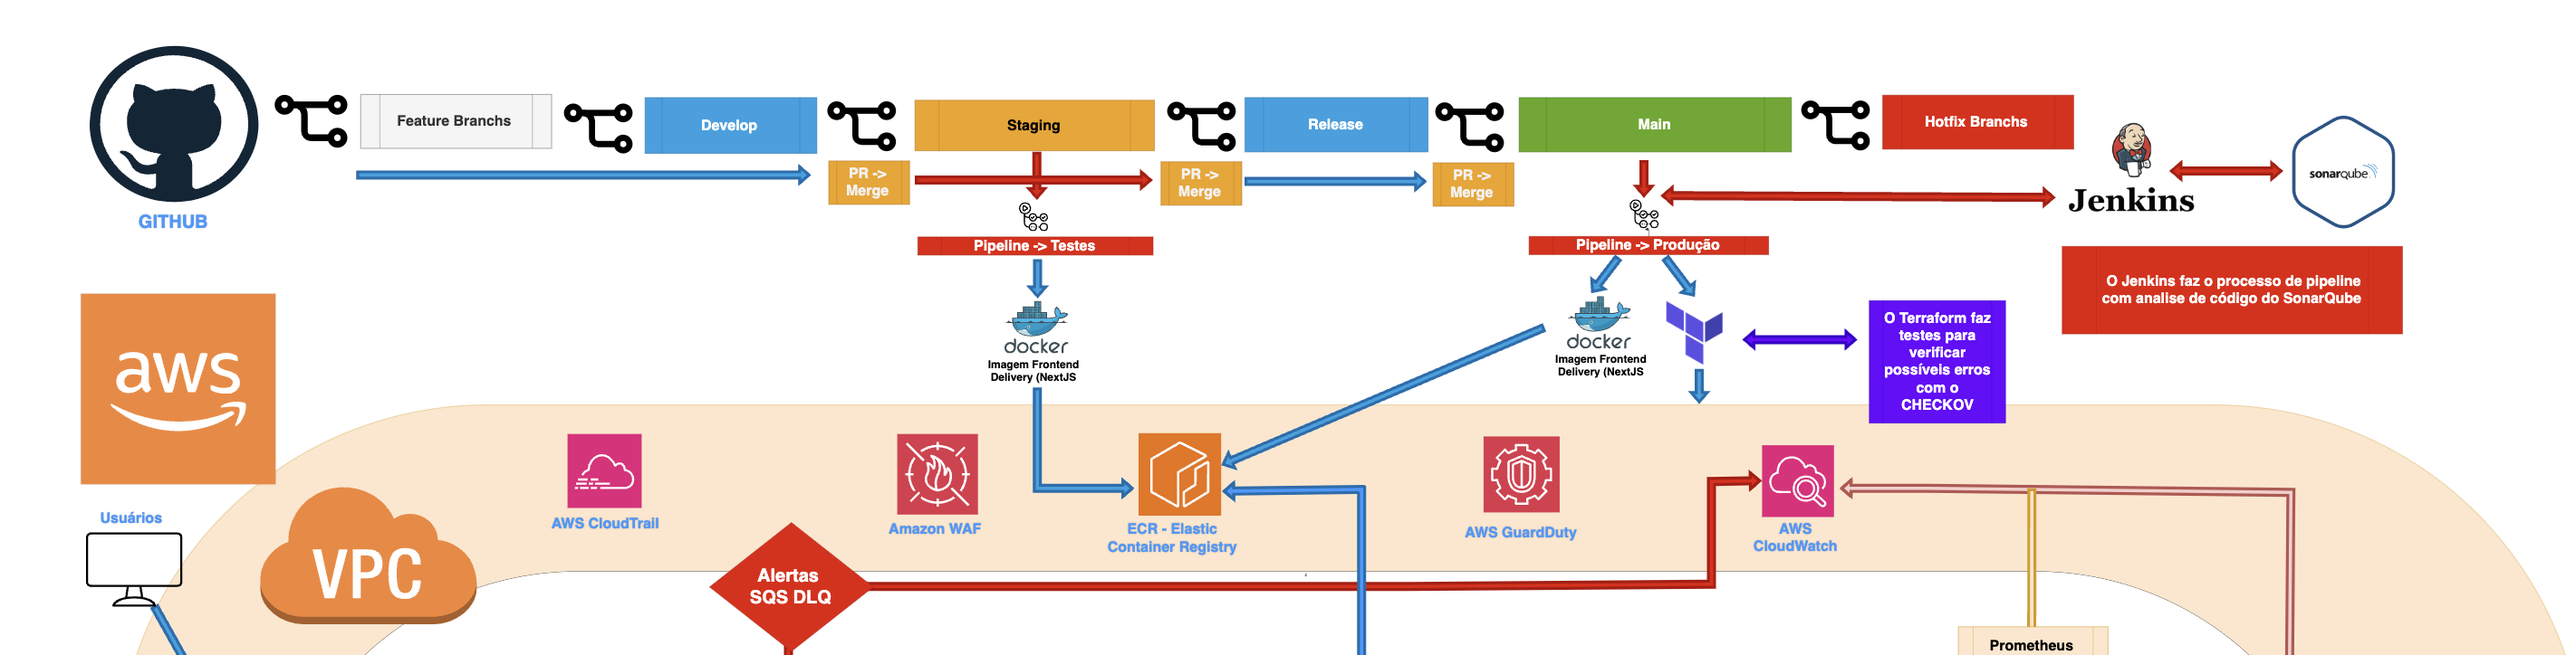
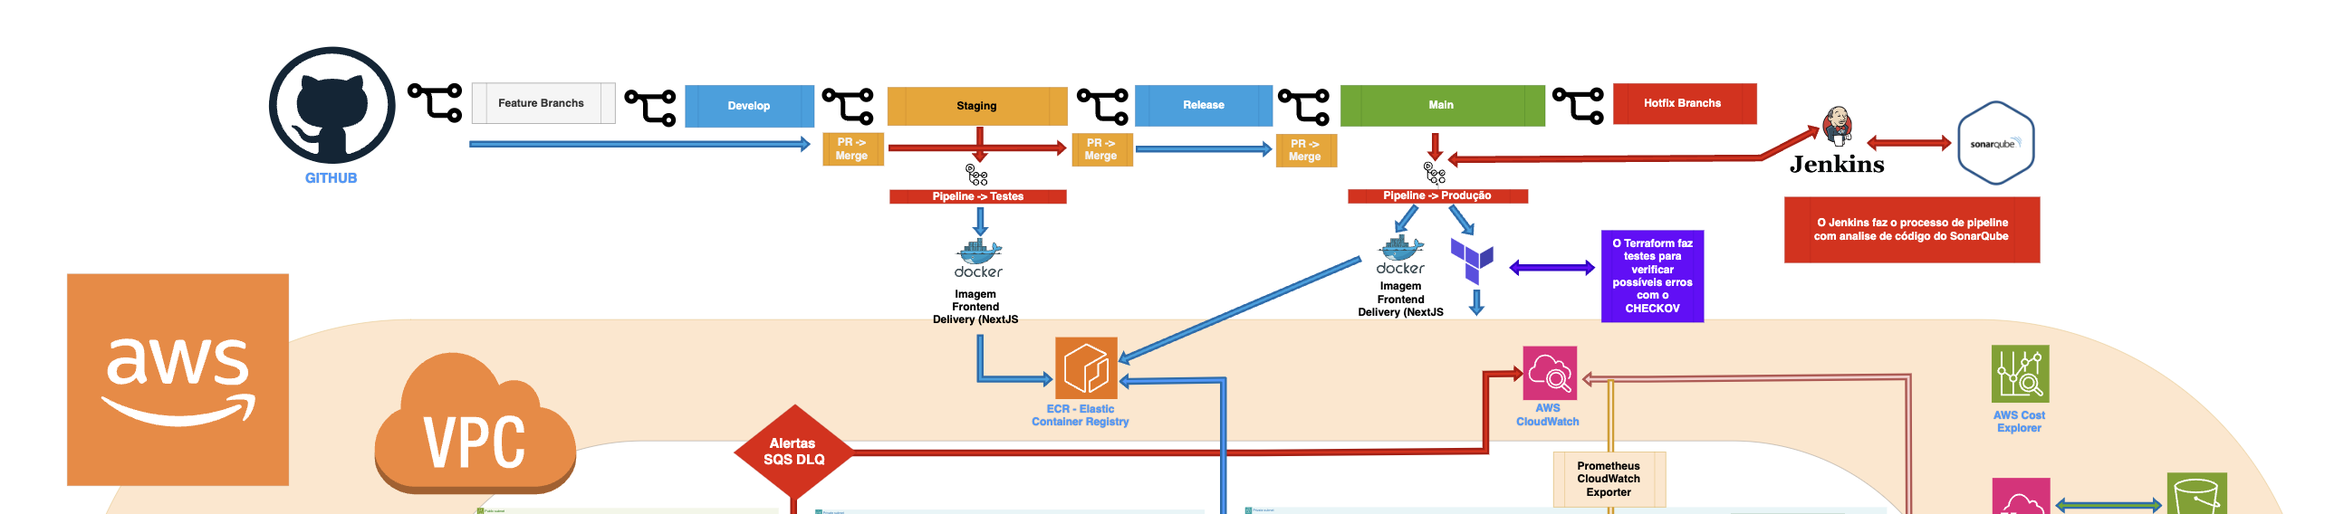
feat: added aws security and analisys resources and elasticstack logs features

Changed region(s): [[0.0309, 0.0599, 1.0, 1.0], [0.8964, 0.1796, 0.9274, 0.2095]]

diff --git a/README.md b/README.md
@@ -444,7 +444,206 @@ Consome:
 - Tempo de espera de mensagens: 20 segundos
 - Tamanho de lote: 10 mensagens
 
+Arquitetura de Segurança
+------------------------
+
+A arquitetura de segurança implementada segue um modelo em camadas, garantindo proteção em diferentes níveis:
+
+### Fluxo de Entrada
+
+1.  **Route 53** → **WAF** → **Shield** → **CloudFront** → **Application Load Balancer** → **Recursos VPC**
+
+```
+graph LR
+    A[Route 53] --> B[WAF]
+    B --> C[Shield]
+    C --> D[CloudFront]
+    D --> E[ALB]
+    E --> F[Recursos VPC]
+
+```
+
+### Recursos de Segurança
+
+#### WAF (Web Application Firewall)
+
+-   Proteção contra ataques web (XSS, SQLi)
+-   Regras de segurança personalizáveis
+-   Filtragem de tráfego malicioso
+-   Rate limiting
+
+#### Shield
+
+-   Proteção DDoS em camadas 3/4 e 7
+-   Mitigação automática de ataques
+-   Proteção da infraestrutura AWS
+
+#### GuardDuty
+
+-   Detecção de ameaças inteligente
+-   Monitoramento contínuo de:
+    -   CloudTrail Logs
+    -   VPC Flow Logs
+    -   DNS Queries
+    -   S3 Access Logs
+
+### Automação de Segurança
+
+#### EventBridge + Lambda
+
+O EventBridge atua como roteador de eventos, direcionando achados do GuardDuty para ações automatizadas via Lambda:
+
+##### Severidade Alta (7-10)
+
+-   Bloqueio automático de IPs suspeitos
+-   Isolamento de recursos comprometidos
+-   Notificação imediata para equipe
+-   Criação de tickets de incidente
+
+##### Severidade Média (4-6)
+
+-   Notificação para equipe
+-   Registro de ocorrência
+-   Monitoramento elevado
+
+##### Severidade Baixa (1-3)
+
+-   Registro em logs
+-   Monitoramento padrão
+
+### Security Hub
+
+Centraliza a visibilidade de segurança:
+
+-   Avaliações de conformidade
+-   Análise de configurações
+-   Integração com AWS Config
+-   Monitoramento de Security Groups
+
+### Monitoramento e Logs
+
+#### CloudTrail
+
+-   Auditoria de atividades AWS
+-   Armazenamento em S3
+-   Integração com CloudWatch Logs
+-   Análise via Athena
+
+#### CloudWatch
+
+-   Métricas de segurança
+-   Dashboards personalizados
+-   Alertas configuráveis
+-   Integração com SNS
+
+### Melhores Práticas Implementadas
+
+1.  **Security Groups**
+
+    -   Princípio de menor privilégio
+    -   Revisão periódica de regras
+    -   Documentação de mudanças
+    -   Monitoramento de alterações
+2.  **Networking**
+
+    -   Segmentação de rede
+    -   VPC endpoints
+    -   Network ACLs
+    -   Encrypted traffic only
+3.  **Identity & Access**
+
+    -   IAM roles específicas
+    -   MFA obrigatório
+    -   Rotação de credenciais
+    -   Auditoria regular
+
+### Resposta a Incidentes
+
+```
+graph TD
+    A[Detecção] --> B[Avaliação]
+    B --> C[Contenção]
+    C --> D[Erradicação]
+    D --> E[Recuperação]
+    E --> F[Lições Aprendidas]
+
+```
+
+1.  **Detecção**
+
+    -   GuardDuty
+    -   CloudWatch Alerts
+    -   Security Hub
+2.  **Automação**
+
+    -   EventBridge Rules
+    -   Lambda Functions
+    -   SNS Notifications
+3.  **Documentação**
+
+    -   Tickets automáticos
+    -   Logs centralizados
+    -   Relatórios de incidentes
+
+### Contatos de Segurança
+
+-   **Emergências**: [email/telefone]
+-   **Reportar Vulnerabilidade**: [email/formulário]
+-   **Equipe de Segurança**: [canal de comunicação]
+
+### Atualizações de Segurança
+
+-   Revisão mensal de configurações
+-   Atualizações semanais de regras
+-   Testes trimestrais de resposta
+-   Auditorias semestrais
+
 ### Monitoramento e Observabilidade
+
+**Utilizando ferramentas como Elastic stack, Prometheus e Grafana, segue os PRÓS de manter a Stack Completa para logs, métricas e alarmes:**
+
+1.  **Observabilidade Completa**
+
+-   Visão 360° do ambiente
+-   Correlação entre diferentes fontes
+-   Troubleshooting eficiente
+-   Análise profunda de problemas
+-   Monitoramento em tempo real
+
+1.  **Flexibilidade**
+
+-   Queries poderosas (PromQL)
+-   Visualizações customizadas
+-   Integração com múltiplas fontes
+-   Adaptabilidade a diferentes casos
+-   Extensibilidade
+
+1.  **Maturidade das Ferramentas**
+
+-   Comunidade ativa
+-   Documentação robusta
+-   Plugins e integrações
+-   Casos de uso comprovados
+-   Suporte empresarial disponível
+
+1.  **Casos de Uso Específicos**
+
+```
+graph TD
+    A[Use Cases]
+    A --> B[Prometheus]
+    A --> C[Elastic Stack]
+    A --> D[Grafana]
+
+    B --> E[Métricas de Aplicação]
+    B --> F[Alertas em Tempo Real]
+
+    C --> G[Análise de Logs]
+    C --> H[APM]
+
+    D --> I[Dashboards Unificados]
+    D --> J[Visualização de Dados]
+```
 
 #### Métricas Principais
 - Taxa de processamento
@@ -483,31 +682,6 @@ Consome:
    - Útil para dimensionamento de recursos
    - Histórico de 24h para análise de padrões
    - Correlacionar com uso de memória
-
-#### Métricas Chave:
-```
-@Component
-public class AccountMetrics {
-    private final MeterRegistry registry;
-
-    public AccountMetrics(MeterRegistry registry) {
-        this.registry = registry;
-
-        // Contador de requisições
-        Counter.builder("accounts.requests.total")
-              .tag("endpoint", "/login")
-              .description("Total number of requests")
-              .register(registry);
-
-        // Gauge para sessões ativas
-        Gauge.builder("accounts.sessions.active", sessionManager,
-            this::getCurrentSessions)
-             .description("Number of active sessions")
-             .register(registry);
-    }
-}
-
-```
 
 ### 1.2 Exam Results Service Dashboard
 
